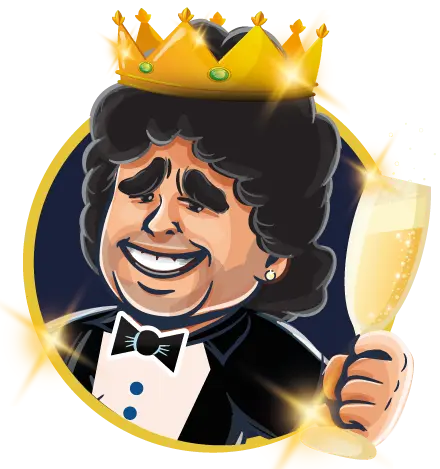
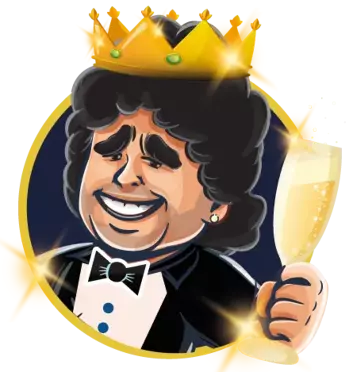
feat provider images by language

diff --git a/src/components/Trivia/PanelFooter.jsx b/src/components/Trivia/PanelFooter.jsx
@@ -13,13 +13,15 @@ const PanelFooter = ({ cat }) => {
     soundOn,
     points,
     images,
+    imagesByLang,
     sounds,
     links,
     texts,
     categories,
   } = useContext(ConfigContext);
 
-  const { rewardsImages, rewardsButton, termsButton, arrowBack, arrowsSlider } = images;
+  const { rewardsButton, termsButton, arrowBack, arrowsSlider } = images;
+  const { rewardsImages } = imagesByLang;
   const { clickOpen, closePopup } = sounds;
   const { termsURL } = links;
   const DATA_CATEGS = categories;
@@ -40,7 +42,7 @@ const PanelFooter = ({ cat }) => {
       closeRwd();
     }
   }
-  
+
   return (
     <div className="panel-footer-container">
       {location.includes("category") || location.includes("question") ? (
@@ -99,7 +101,10 @@ const PanelFooter = ({ cat }) => {
                   </button>
                 </div>
 
-                <RewardsSlider slidesImages={rewardsImages} arrowsSlider={arrowsSlider}/>
+                <RewardsSlider
+                  slidesImages={rewardsImages}
+                  arrowsSlider={arrowsSlider}
+                />
               </div>
             </div>
           )}

diff --git a/src/pages/Trivia.jsx b/src/pages/Trivia.jsx
@@ -10,10 +10,10 @@ import SpinnerWheel from "../components/Trivia/SpinnerWheel";
 import PanelFooter from "../components/Trivia/PanelFooter";
 
 export default function Trivia() {
-  const { soundOn, setSoundOn, points, images, sounds, texts } =
+  const { soundOn, setSoundOn, points, images, imagesByLang, sounds, texts } =
     useContext(ConfigContext);
-  const { backgroundApp, iconSoundActive, iconSoundMute, bubbleStartMessage, bubbleDailyLimit, idolGolden } =
-    images;
+  const { backgroundApp, iconSoundActive, iconSoundMute, idolGolden } = images;
+  const { bubbleStartMessage, bubbleDailyLimit } = imagesByLang;
   const { muteButton } = sounds;
   const { congratsTriviaCompleted } = texts;
 
@@ -48,7 +48,7 @@ export default function Trivia() {
         />
       </div>
 
-      <LogoHeader page={"home"} />
+      <LogoHeader />
 
       <div className="sound-controls ">
         <button className="mute-control" aria="switch" onClick={handleSound}>

diff --git a/index.html b/index.html
@@ -7,9 +7,11 @@
     <title>Quiz Maradona</title>
     <link rel="preload" href="/src/assets/fonts/Oswald_variable.ttf" as="font" type="font/ttf" crossorigin> 
     <meta name="description" content="Trivia Diego Maradona - Juego de preguntas con categorías - by Media Moob">
-    <link rel="icon" type="image" href="/trivia-logo-app.png" />
-    <link rel="apple-touch-icon" href="/trivia-logo-app.png">
-    <link rel="mask-icon" href="/trivia-logo-app.png" color="#ffffff">
+    <link rel="shortcut icon" href="/img/en/logo-app.png" type="image/png">
+    <link rel="icon" type="image/png" href="/img/en/logo-app.png" />
+    <link rel="apple-touch-icon" href="/img/en/logo-app.png">
+    <link rel="mask-icon" href="/img/en/logo-app.png" color="#ffffff">
+    
     <meta name="theme-color" content="#000000">
 
     <script src="/registerSW.js"></script>

diff --git a/vite.config.js b/vite.config.js
@@ -17,7 +17,7 @@ export default defineConfig({
       injectRegister: "script",
       registerType: "autoUpdate",
       devOptions: { enabled: false },
-      includeAssets: ["/trivia-logo-app.png", "/logo-192x192.png"],
+      includeAssets: ["/img/en/logo-app.png"],
       manifest: {
         name: "Quiz Diego Maradona by MediaMoob",
         short_name: "Trivia Maradona",
@@ -26,7 +26,7 @@ export default defineConfig({
         theme_color: "#000000",
         icons: [
           {
-            src: "/img/logo-192x192.png",
+            src: "/img/en/logo-app.png",
             sizes: "192x192",
             type: "image/png",
           },

diff --git a/src/components/Trivia/LogoHeader.jsx b/src/components/Trivia/LogoHeader.jsx
@@ -3,8 +3,9 @@ import { Link, useLocation } from "react-router-dom";
 import { ConfigContext } from "../../ConfigProvider";
 
 export default function LogoHeader() {
-  const { images } = useContext(ConfigContext);
-  const { logoHeader, idolImage, madeBy } = images;
+  const { images, imagesByLang } = useContext(ConfigContext);
+  const { idolImage, madeBy } = images;
+  const { logoHeader } = imagesByLang;
   const location = useLocation().pathname;
 
   return (

diff --git a/src/ConfigProvider.jsx b/src/ConfigProvider.jsx
@@ -13,6 +13,7 @@ import {
 
 const lang = document.documentElement.lang;
 const texts = textsByLang[`${lang}`];
+const imagesByLang = images[`${lang}`];
 
 const ConfigContext = createContext();
 
@@ -40,6 +41,7 @@ const ConfigProvider = ({ children }) => {
     setDataStored,
     config,
     images,
+    imagesByLang,
     sounds,
     links,
     texts,
